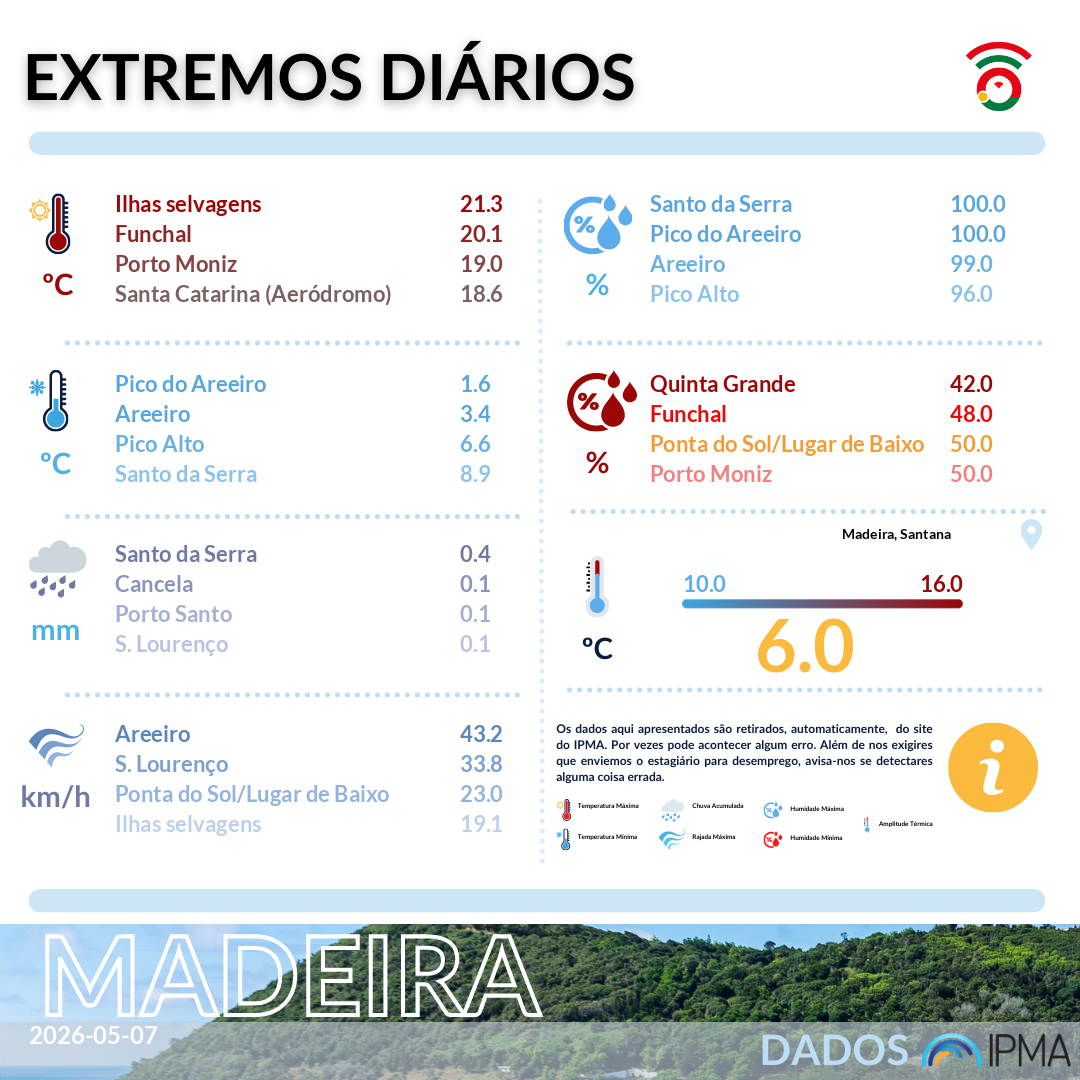
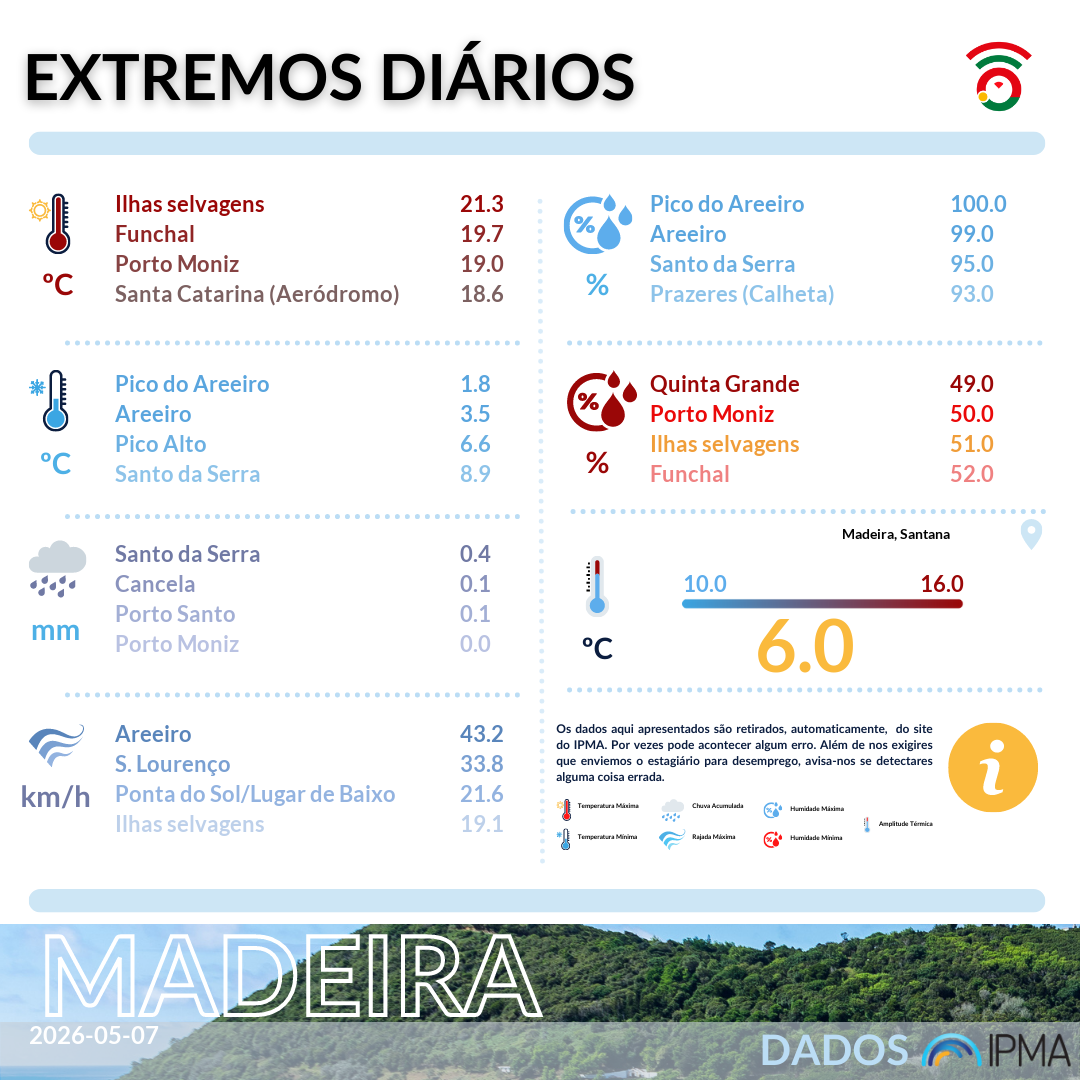
feat: add alt text for daily report images
- Generate descriptive alt text for each region (Portugal, Azores, Madeira)
- Save alt text as .txt files alongside the images
- Use comma as decimal separator (pt-PT locale)
- No units, matches the image content
- Compatible with current IPMA API implementation

diff --git a/app.py b/app.py
@@ -15,13 +15,13 @@
 
 import requests
 import pandas as pd
-import regex as re
+import re   
 import json
 import time
 from datetime import datetime, timedelta
-from PIL import Image, ImageFont, ImageDraw 
+from PIL import Image, ImageFont, ImageDraw
 import logging
-
+from string import Template
 # Configure logger
 logger = logging.getLogger(__name__)
 
@@ -40,6 +40,16 @@ HEADERS = {
     "User-Agent": "VostPTExtremosMeteo/1.0 (DailyWeatherReport; +https://github.com)",
     "Accept": "text/html,application/xhtml+xml,application/xml;q=0.9,*/*;q=0.8",
 }
+
+station_info_cache = {}
+
+
+def _station_fallback_df(station_id):
+    """Return a safe station payload when API lookup fails."""
+    return pd.DataFrame([{
+        "location": f"Estacao {station_id}",
+        "place": "Unknown",
+    }])
 
 def _is_valid(value):
     """Exclude -99.0 (IPMA's invalid/missing indicator)."""
@@ -183,6 +193,9 @@ ipma_data_yesterday = ipma_data[ipma_data['date'] == yesterday_date].copy()
 
 # Define function to fetch stationId's name 
 def getStationNameById(id):
+    if id in station_info_cache:
+        return station_info_cache[id]
+
     headers = {
         "User-Agent": "VostPTExtremosMeteo/1.0",
     }
@@ -209,31 +222,46 @@ def getStationNameById(id):
         # Check if response is empty
         if not response_id.text:
             logger.error(f"Empty response received for station ID {id}")
-            return None
+            fallback = _station_fallback_df(id)
+            station_info_cache[id] = fallback
+            return fallback
         
         # Add more detailed error logging
         try:
             json_id = response_id.json()
             if not json_id:
                 logger.error(f"Empty JSON received for station ID {id}")
-                return None
+                fallback = _station_fallback_df(id)
+                station_info_cache[id] = fallback
+                return fallback
             
             # Log the structure of the response
             logger.debug(f"JSON structure: {json_id.keys() if isinstance(json_id, dict) else 'not a dict'}")
             
             df_id = pd.json_normalize(json_id)
+            if "location" not in df_id.columns:
+                df_id["location"] = f"Estacao {id}"
+            if "place" not in df_id.columns:
+                df_id["place"] = "Unknown"
+            station_info_cache[id] = df_id
             return df_id
         except json.JSONDecodeError as e:
             logger.error(f"JSON decode error for station ID {id}: {e}")
             logger.error(f"Response content was: {response_id.text[:200]}...")  # Log first 200 chars
-            return None
+            fallback = _station_fallback_df(id)
+            station_info_cache[id] = fallback
+            return fallback
         
     except requests.exceptions.RequestException as e:
         logger.error(f"Request error for station ID {id}: {e}")
-        return None
+        fallback = _station_fallback_df(id)
+        station_info_cache[id] = fallback
+        return fallback
     except Exception as e:
         logger.error(f"Unexpected error for station ID {id}: {e}")
-        return None
+        fallback = _station_fallback_df(id)
+        station_info_cache[id] = fallback
+        return fallback
 
 # Create empty list for territory
 territory = []
@@ -754,6 +782,68 @@ min_hum_station_name_x = 650  # WHere Station Name Appears
 min_hum_value_x = 950  # Where Value Appears 
 min_hum_unit_x = 970    # Where Unit Appears 
 
+alt_text_template = Template(" ".join([
+    "Temperatura máxima: $max_temp_station_0 ($max_temp_0); $max_temp_station_1 ($max_temp_1); $max_temp_station_2 ($max_temp_2); $max_temp_station_3 ($max_temp_3).",
+    "Temperatura mínima: $min_temp_station_0 ($min_temp_0); $min_temp_station_1 ($min_temp_1); $min_temp_station_2 ($min_temp_2); $min_temp_station_3 ($min_temp_3).",
+    "Chuva acumulada: $rainfall_station_0 ($rainfall_0); $rainfall_station_1 ($rainfall_1); $rainfall_station_2 ($rainfall_2); $rainfall_station_3 ($rainfall_3).",
+    "Rajada máxima: $wind_station_0 ($wind_0); $wind_station_1 ($wind_1); $wind_station_2 ($wind_2); $wind_station_3 ($wind_3).",
+    "Humidade máxima: $max_humidity_station_0 ($max_humidity_0); $max_humidity_station_1 ($max_humidity_1); $max_humidity_station_2 ($max_humidity_2); $max_humidity_station_3 ($max_humidity_3).",
+    "Humidade mínima: $min_humidity_station_0 ($min_humidity_0); $min_humidity_station_1 ($min_humidity_1); $min_humidity_station_2 ($min_humidity_2); $min_humidity_station_3 ($min_humidity_3).",
+    "Maior amplitude térmica: $amplitude_station ($amplitude, variando entre $min_amplitude e $max_amplitude)."
+]))
+
+alt_text_pt_data: dict[str, str] = {}
+alt_text_az_data: dict[str, str] = {}
+alt_text_mad_data: dict[str, str] = {}
+
+
+def _build_alt_text_payload(
+    temp_max_df,
+    temp_min_df,
+    rain_df,
+    wind_df,
+    hum_max_df,
+    hum_min_df,
+    amplitude_df,
+    cleaner=lambda value: value,
+):
+    payload = {}
+
+    def fill_top4(prefix, df, value_column):
+        for idx in range(4):
+            if idx < len(df):
+                station_id = df.iloc[idx].stationId
+                station_name = getStationNameById(station_id).location.values[0]
+                station_name = cleaner(station_name)
+                value = df.iloc[idx][value_column]
+            else:
+                station_name = "N/A"
+                value = "N/A"
+            payload[f"{prefix}_station_{idx}"] = str(station_name)
+            payload[f"{prefix}_{idx}"] = str(value)
+
+    fill_top4("max_temp", temp_max_df, "temp_max")
+    fill_top4("min_temp", temp_min_df, "temp_min")
+    fill_top4("rainfall", rain_df, "prec_quant")
+    fill_top4("wind", wind_df, "vento_int_max_inst")
+    fill_top4("max_humidity", hum_max_df, "hum_max")
+    fill_top4("min_humidity", hum_min_df, "hum_min")
+
+    if len(amplitude_df) > 0:
+        amp_station_id = amplitude_df.iloc[0].stationId
+        amp_station_name = cleaner(getStationNameById(amp_station_id).location.values[0])
+        payload["amplitude_station"] = str(amp_station_name)
+        payload["amplitude"] = str(round(amplitude_df.iloc[0].amplitude, 2))
+        payload["min_amplitude"] = str(amplitude_df.iloc[0].temp_min)
+        payload["max_amplitude"] = str(amplitude_df.iloc[0].temp_max)
+    else:
+        payload["amplitude_station"] = "N/A"
+        payload["amplitude"] = "N/A"
+        payload["min_amplitude"] = "N/A"
+        payload["max_amplitude"] = "N/A"
+
+    return payload
+
 # Create Loop For Max Temperature 
 for x in range(4):
     name = getStationNameById(four_temp_max_mad.iloc[x].stationId)
@@ -868,6 +958,45 @@ image_editable_mad.text((29,1020), report_date,(255,255,255), font=date_font)
 #---------------------------------
 #         SAVE PICTURES
 #---------------------------------
+# Build and save alt text files
+alt_text_pt_data = _build_alt_text_payload(
+    four_temp_max_pt,
+    four_temp_min_pt,
+    four_rain_accu_pt,
+    four_wind_max_pt,
+    four_hum_max_pt,
+    four_hum_min_pt,
+    df_amplitude_pt,
+    cleaner=lambda value: value.replace("(CIM)", "").strip(),
+)
+alt_text_az_data = _build_alt_text_payload(
+    four_temp_max_az,
+    four_temp_min_az,
+    four_rain_accu_az,
+    four_wind_max_az,
+    four_hum_max_az,
+    four_hum_min_az,
+    df_amplitude_az,
+    cleaner=lambda value: value.replace("(DROTRH)", "").strip(),
+)
+alt_text_mad_data = _build_alt_text_payload(
+    four_temp_max_mad,
+    four_temp_min_mad,
+    four_rain_accu_mad,
+    four_wind_max_mad,
+    four_hum_max_mad,
+    four_hum_min_mad,
+    df_amplitude_mad,
+    cleaner=lambda value: value.replace("Madeira,", "").strip(),
+)
+
+with open("daily_meteo_report_pt_alt.txt", "w", encoding="utf-8") as file_pt:
+    file_pt.write(alt_text_template.substitute(alt_text_pt_data))
+with open("daily_meteo_report_az_alt.txt", "w", encoding="utf-8") as file_az:
+    file_az.write(alt_text_template.substitute(alt_text_az_data))
+with open("daily_meteo_report_mad_alt.txt", "w", encoding="utf-8") as file_mad:
+    file_mad.write(alt_text_template.substitute(alt_text_mad_data))
+
 # Save Resulting Pictures
 template_pt.save("daily_meteo_report_pt.png")
 template_az.save("daily_meteo_report_az.png")

diff --git a/tempCodeRunnerFile.py b/tempCodeRunnerFile.py
@@ -1,0 +1,2 @@
+
+print("Done! Images and alt text files generated.")